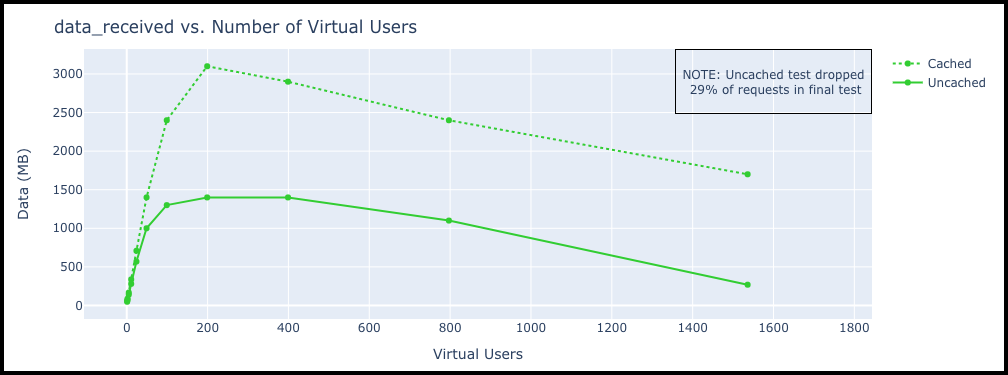
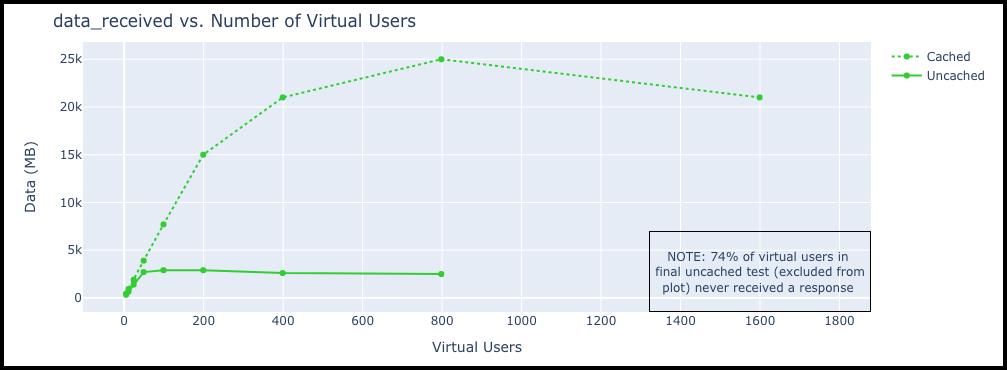
Updated with new test results

diff --git a/content/posts/2020/03/load-testing-f1-micro/index.md b/content/posts/2020/03/load-testing-f1-micro/index.md
@@ -71,30 +71,9 @@ To perform the load test I used [k6.io](https://k6.io/), an open source performa
 
 First, I wanted to create a script to approximate the load that the two HN posts brought. The peak hour had 1443 page views, or 0.4 pageviews/second. To account for the load not being constant across the entire hour I rounded this up to 1 pageview/second.
 
-
-K6 has the ability to use a [HAR file](https://en.wikipedia.org/wiki/HAR_(file_format)) to create a representative set of HTTP requests. I used 1 virtual user and adjusted the pause between iterations to achieve just over 1 pageload/second (with a "pageload" corresponding to the batch of HTTP requests). The full k6 script can be found as a [GitHub gist](https://gist.github.com/sidpalas/7f284eb88a832ba21190b1b0cd5f5ba9) and the resulting output can be seen below:
+K6 has the ability to use a [HAR file](https://en.wikipedia.org/wiki/HAR_(file_format)) to create a representative set of HTTP requests. I used 1 virtual user and adjusted the pause between iterations to achieve just over 1 pageload/second (with a "pageload" corresponding to the batch of HTTP requests). I excluded external requests requests for things like the Google Analytics script. The full k6 configuration script can be found as a [GitHub gist](https://gist.github.com/sidpalas/7f284eb88a832ba21190b1b0cd5f5ba9) and the resulting output can be seen below:
 
 ```
-          /\      |‾‾|  /‾‾/  /‾/   
-     /\  /  \     |  |_/  /  / /    
-    /  \/    \    |      |  /  ‾‾\  
-   /          \   |  |‾\  \ | (_) | 
-  / __________ \  |__|  \__\ \___/ .io
-
-  execution: local--------------------------------------------------]   servertor
-     output: -
-     script: har-test-script.js
-
-    duration: -, iterations: -
-         vus: 1, max: 1
-
-    init [----------------------------------------------------------] starting
-    █ page_1 - https://test.devopsdirective.com/posts/2020/03/always-on-minikube/
-
-      ✓ http2 is used
-      ✓ status is 200
-      ✓ content is present
-
     check_failure_rate.........: 0.00%   ✓ 0   ✗ 138
     checks.....................: 100.00% ✓ 414 ✗ 0  
     data_received..............: 66 MB   549 kB/s
@@ -122,21 +101,23 @@ K6 has the ability to use a [HAR file](https://en.wikipedia.org/wiki/HAR_(file_f
 
 ### Ramping it up!
 
-With that test as a baseline, I then ran a series of test, each 20 seconds long, starting with a single VU and increasing the number of VUs with each test. The most important of the metrics statistics is `http_req_duration` which represents is the total request time (`http_req_sending + http_req_waiting + http_req_receiving`).
+With that test as a baseline, I then ran a series of test, each 60 seconds long, starting with 6 Virtual Users and increasing the number of VUs with each test. The most important of the metrics statistics is `http_req_duration` which represents is the total request time (`http_req_sending + http_req_waiting + http_req_receiving`).
 
-{{< img-link "images/http_req_duration.png" "images/http_req_duration.png" "The plot you all came here for!">}}
+{{< img-link "images/http_req_duration.png" "images/http_req_duration.png" "Unsuprisingly... caching makes a big difference">}}
 
-Up until around 20 VUs, the response time remains flat, with an uncached median of 35ms and a cached median of 21ms.
+{{< img-link "images/http_req_duration_zoomed_thumbnail.png" "images/http_req_duration_zoomed.png" "Click for full size image">}}
 
-After 50 VUs, the response rates begin to climb in a mostly linear fashion and at 800 VUs, at which point the uncached median was 451ms and the cached median was 182ms. As would be expected at these higher loads, most (~75%) of the of `http_req_duration` is spent in the `http_req_waiting` stage.
+Up until around 50 VUs, the response time remains flat, with an uncached median of 68ms and a cached median of 31ms.
 
-The uncached configuration finally gave in during the 1536 virtual user test, and 29% of the pageloads included a response other than `200 OK`.
+After 50 VUs, the response rates begin to climb in a linear fashion. At 800 VUs the uncached median was 349ms and the cached median was 67ms. As would be expected at these higher loads, most (90+%) of the of `http_req_duration` is spent in the `http_req_waiting` stage.
+
+The uncached configuration finally gave out during the 1600 virtual user test, with only 414 successfully responses, indicating that ~74% of the Virtual Users never received a response.
 
 #### Virtual Users and Server Load
 
-It is important to note here that while the Virtual Users run in parallel with each other, they run in serial with themselves. By this I mean that any individual VU waits until its current pageload is complete before making a new request. As the server slows down under load, this causes the total rate of requests to drop in the tests with more than 200 VUs. This can be clearly seen in the total amount of data received during the tests plotted below. Data received scales linearly with the number of pageloads (except for the final uncached data point where the failed requests would cause it to be lower by ~30% relative to the number of requests made).
+It is important to note here that while the Virtual Users run in parallel with each other, they run in serial with themselves. By this I mean that any individual VU waits until its current pageload is complete before making a new set of requests. As the server slows down under load, this causes the total rate of requests to drop in the more demanding tests. This can be clearly seen in the total amount of data received during the tests plotted below.
 
-{{< img-link "images/data_received.png" "images/data_received.png" "Data recieved (and pageloads/s) peaks around 200 Virtual Users">}}
+{{< img-link "images/data_received.png" "images/data_received.png" "Data recieved (and pageloads/s) peaks before the more demanding tests">}}
 
 These were the two most informative plots, but all of the data and code to generate plots can be found in a notebook in this [GitHub repo](https://github.com/sidpalas/f1-micro-caddy-benchmark). You can load an interactive copy of the notebook using the following binder link:
 
@@ -145,31 +126,33 @@ These were the two most informative plots, but all of the data and code to gener
 
 ### Snags along the way:
 
- 1) **Bandwidth limitations:** As noted above, my home internet was not sufficient to support the load test. Moving to a GCP virtual machine with sufficient bandwidth (Measured it @ 900+ Mbps) solved this.
+I did run into some technical limitations when configuring and executing these tests. Here are the main issues and how I overcame them:
 
- 2) **Out of memory:** After moving to a n1-standard1 instance, the more demanding tests caused k6 to run out of memory. (`fatal error: runtime: out of memory`). Moving to an n1-standard-4 (15GB memory) solved this.
+ 1) **Bandwidth Limitations:** As noted above, my home internet was not sufficient to support the load test. Moving to a GCP virtual machine with sufficient bandwidth (Measured @ 900+ Mbps) as the test client running k6 solved this. For the later tests in the cached configuration this was actually still the limiting factor.
 
- 3) **Unix resource limits:** Because each request group makes multiple HTTP requests, the final test with 1600 target virtual users surpasses the [maximum number of open files](https://k6.io/docs/misc/fine-tuning-os#user-resource-limits) allowed by the OS for a single process to managed at once. Testing on two VMs in parallel solved this (and allowed me add the "Distributed" D to the title of this article 🤓...), but increasing the limit with `ulimit -n <NEW_LARGER_LIMIT>` is the approach I ended up using.
+ 2) **Memory Limitations:** After moving from my laptop to an n1-standard-1 instance as the testing client, the more demanding tests caused k6 to run out of memory (`fatal error: runtime: out of memory`). Moving to an n1-standard-8 (30GB memory) solved this.
+
+ 3) **Unix Resource Limits:** Because each request group makes multiple HTTP requests, the final test with 1600 target virtual users surpasses the [default maximum number of open files](https://k6.io/docs/misc/fine-tuning-os#user-resource-limits) allowed by the OS for a single process to managed at once. Testing on two VMs in parallel solved this (and allowed me add the "Distributed" D to the title of this article 🤓...), but increasing the limit with `ulimit -n <NEW_LARGER_LIMIT>` is the approach I ended up using.
 
 ## (Aside) Total Costs
 
 The total cost to run this experiment was $__:
-- $__ for __ GB of network egress
-- $__ for running the server f1-micro instance for a few days
-- $__ for running the testing instances for a few hours
+- $0.51 for 12.81 GB of network egress
+- $0.36 for running the server f1-micro instance for a ~2 days
+- $0.38 for running the testing n1-standard-8 instances for a ~2 hrs
 
 ## Conclusions
 
 I am continuously amazed at the level of load that even such a tiny virtual machine can handle when serving static content!
 
-Also, utilizing a service like Cloudflare to help cache and serve content reduces the load on the server significantly and cut the response times in half under heavy load and by a third under light load.
+Utilizing a service like Cloudflare to help cache and serve content reduces the load on the server significantly and cut the response times in half under light load and prevented the server from being overwhelmed under heavy load.
 
-I would have like to have recorded realtime resource (CPU + Memory usage on the server VM) but the GCP cloud monitoring agent isn't compatible with Container Optimized OS, so I settled for the rough 1min averaged view in the GCP console:
+I would have like to have recorded realtime resource (CPU + Memory usage on the server VM) but the GCP cloud monitoring agent isn't compatible with Container Optimized OS, so I settled for the rough 1 min averaged view in the GCP console:
 
 {{< img "images/peak-cpu.png" "Now we're cooking with gas! (bursting above the 0.2 vCPU limit for a short period)">}}
 
 This test gives me confidence that my current server configuration should be able to handle quite a bit of growth before needing any major overhaul. 
 
-In the future I would love to do similar benchmarking across other hosting options. If someone has a contact at [@github](https://twitter.com/github) or [@netlify](https://twitter.com/Netlify) that could grant me permission to run a test against a Github Pages or Netlify Starter site let me know! Or maybe at [@bluehost](https://twitter.com/bluehost) so I can benchmark a Wordpress install...
+In the future I would love to do similar benchmarking across other hosting options. If someone has a contact at [@github](https://twitter.com/github) or [@netlify](https://twitter.com/Netlify) that could grant me permission to run a test against a Github Pages or Netlify Starter site let me know! Or maybe at [@bluehost](https://twitter.com/bluehost) so I can benchmark some Wordpress installs...
 
 <!-- -- Shout out YouTube + call to action -->
